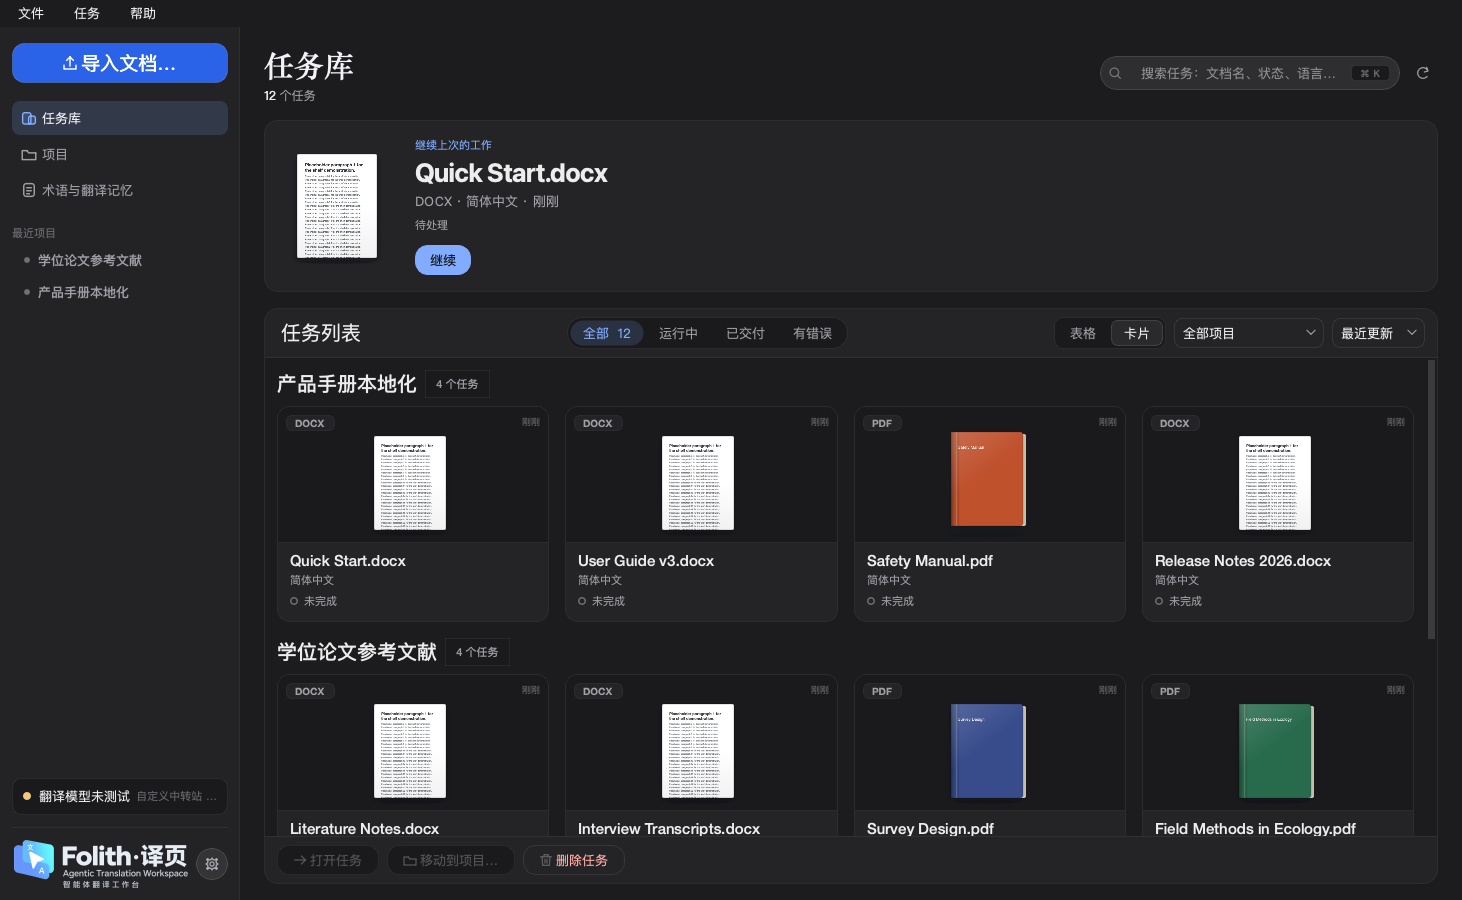
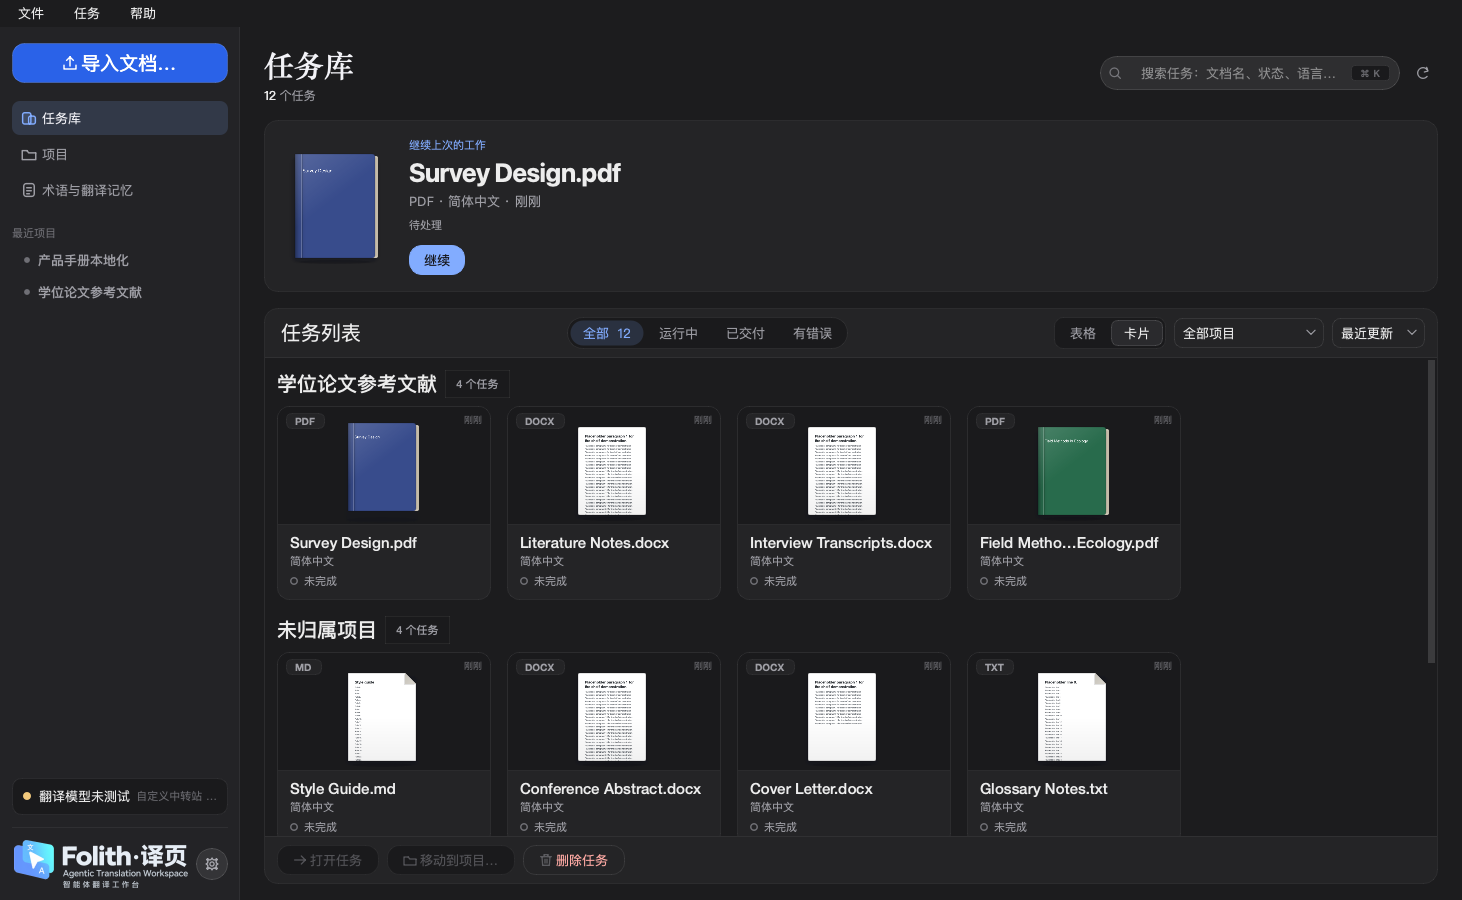
feat(qt): a tighter task card around its document
The card's frame was too generous for the document it holds:

* the document area is 118 px (was 136) with less empty margin around the
  document, and the text block has tighter padding;
* cards are 180–236 px wide and share a row evenly; wider windows get more
  columns instead of wider cards with empty space either side of the page;
* the column count and card width follow the card area's own viewport width
  (scrollbar, settled layout) and are re-applied on every viewport resize,
  not only when the column count changes.

diff --git a/folith/qt/views.py b/folith/qt/views.py
@@ -351,7 +351,8 @@ class _TaskCard(Card):
     activated = Signal(str)
     attentionRequested = Signal(str)
     #: 卡片的最小宽度（px）：列数 = 可用宽度能放下几张这么宽的卡。
-    MIN_WIDTH = 200
+    MIN_WIDTH = 180
+    MAX_WIDTH = 236
 
     def __init__(self, row: adapter.JobRow, *, tone: str,
                  parent: QWidget | None = None) -> None:
@@ -361,6 +362,8 @@ class _TaskCard(Card):
         self.setCursor(Qt.CursorShape.PointingHandCursor)
         self.setToolTip(i18n.tr('单击选中；双击打开任务'))
         self.setMinimumWidth(self.MIN_WIDTH)
+        # 卡片不随窗口无限变宽：宽了只会在文档两侧留出大片空白（看起来像外框太大）。
+        self.setMaximumWidth(self.MAX_WIDTH)
         # 卡片视图是默认视图：纯键盘用户必须能用 Tab 进到卡片、方向键换卡、回车打开。
         self.setFocusPolicy(Qt.FocusPolicy.StrongFocus)
         self.setAccessibleName(row.title or "")
@@ -370,15 +373,15 @@ class _TaskCard(Card):
         self.setProperty("selected", "false")
 
         column = QVBoxLayout(self)
-        column.setContentsMargins(0, 0, 0, theme_module.SPACE["md"])
+        column.setContentsMargins(0, 0, 0, theme_module.SPACE["sm"] + 2)
         column.setSpacing(theme_module.SPACE["sm"])
 
         # ---- 上半：文档示意 ----------------------------------------------
         thumb = QFrame()
         thumb.setObjectName("tileThumb")
-        thumb.setFixedHeight(136)
+        thumb.setFixedHeight(118)
         thumb_layout = QGridLayout(thumb)
-        thumb_layout.setContentsMargins(theme_module.SPACE["sm"], theme_module.SPACE["sm"],
+        thumb_layout.setContentsMargins(theme_module.SPACE["sm"], theme_module.SPACE["xs"] + 2,
                                         theme_module.SPACE["sm"], 0)
         badge_text = _row_format(row)
         # ⚠ 子控件一律先给父对象再改可见性：对无父控件 setVisible(True) 会把它
@@ -390,7 +393,7 @@ class _TaskCard(Card):
         self.time_label.setObjectName("tileTime")
         self.time_label.setToolTip((row.updated_at or "").replace("T", " ")[:16])
         unreadable = bool(str(getattr(row, "error", "") or "").strip())
-        paper = components.DocThumb(72, 94, faded=unreadable)
+        paper = components.DocThumb(68, 88, faded=unreadable)
         paper.set_document(row.filename, row.segment_count)
         self.paper = paper
         self._motion = motion.Motion(self)
@@ -402,8 +405,8 @@ class _TaskCard(Card):
 
         # ---- 下半：文字 ----------------------------------------------------
         text = QVBoxLayout()
-        text.setContentsMargins(theme_module.SPACE["md"], 0, theme_module.SPACE["md"], 0)
-        text.setSpacing(theme_module.SPACE["xxs"] + 1)
+        text.setContentsMargins(theme_module.SPACE["sm"] + 4, 0, theme_module.SPACE["sm"] + 4, 0)
+        text.setSpacing(theme_module.SPACE["xxs"])
         title = style_module.ElideLabel(row.title or i18n.tr("未命名任务"),
                                         mode=Qt.TextElideMode.ElideMiddle)
         title.setObjectName("taskCardTitle")
@@ -841,6 +844,7 @@ class HomeView(QWidget):
             Qt.ScrollBarPolicy.ScrollBarAlwaysOff)
         self.card_scroll.viewport().setAutoFillBackground(False)
         self.card_scroll.setWidget(self.card_page)
+        self.card_scroll.viewport().installEventFilter(self)
         self._cards: dict[str, _TaskCard] = {}
         self._project_names: dict[str, str] = {}
         self._card_columns_applied = 0
@@ -1351,27 +1355,58 @@ class HomeView(QWidget):
         self._set_view_mode(value)
         self.view_switch.set_value(self._view_mode)
 
+    def _cards_available(self) -> int:
+        """卡片区可用的宽度。
+
+        卡片区已经显示并布局好时，量它的视口（出现滚动条、首次布局落定都会改变它）；
+        否则按整页宽度估算——侧栏还在这一页里（独立使用、没交给窗口）时要扣掉它。
+        """
+        viewport = self.card_scroll.viewport()
+        if self.card_scroll.isVisible() and viewport.width() > 200:
+            return viewport.width() - 2 * theme_module.SPACE["md"]
+        sidebar = self.SIDEBAR_WIDTH if self.isAncestorOf(self.sidebar) else 0
+        return self.width() - sidebar - 2 * theme_module.SPACE["xl"] - 2 * theme_module.SPACE["md"]
+
+    def _card_width(self, columns: int) -> int:
+        """一行里的卡片等宽铺开，但不超过 MAX_WIDTH（再宽就只是文档两侧的空白）。"""
+        available = self._cards_available()
+        gap = theme_module.SPACE["lg"]
+        share = (available - gap * (columns - 1)) // max(1, columns)
+        return int(max(_TaskCard.MIN_WIDTH, min(_TaskCard.MAX_WIDTH, share)))
+
     def _card_columns(self) -> int:
         """能并排放下几张 ≥ ``_TaskCard.MIN_WIDTH`` 的卡（Golden Gate 的缩略图网格）。
 
         先看视图自己的宽度（滚动区在首次填充时往往还没被布局到最终尺寸），再减去侧栏、
         主区左右留白与容器卡的内边距。
         """
-        width = self.width() or self.card_scroll.viewport().width()
-        available = width - self.SIDEBAR_WIDTH - 2 * theme_module.SPACE["xl"] \
-            - 2 * theme_module.SPACE["md"]
+        available = self._cards_available()
         gap = theme_module.SPACE["lg"]
-        return max(1, min(6, (available + gap) // (_TaskCard.MIN_WIDTH + gap)))
+        # 按卡片的最大宽度排：窗口越宽列越多，而不是每张卡越宽。
+        return max(1, min(8, (available + gap) // (_TaskCard.MIN_WIDTH + gap + 20)))
 
     def resizeEvent(self, event) -> None:  # noqa: N802 - Qt 命名
         """窗口宽度跨过断点时重排卡片：否则列数会和可用宽度脱节。"""
         super().resizeEvent(event)
+        self._relayout_cards()
+
+    def _relayout_cards(self) -> None:
+        """卡片区宽度变了：列数变了就重排，没变就只把现有卡片调到新的等宽。
+
+        要看的是卡片滚动区视口的宽度（出现滚动条、首次布局落定都会改变它），
+        不只是整页的宽度——否则卡片停在填充那一刻算出的宽度上，右侧留出一条空白。
+        """
         if self._view_mode != "cards" or not self._cards:
             return
         columns = self._card_columns()
         if columns != self._card_columns_applied:
             self._fill_cards(self._visible_rows())
             self._sync_card_selection()
+            return
+        width = self._card_width(columns)
+        for card in self._cards.values():
+            if card.width() != width:
+                card.setFixedWidth(width)
 
     def _project_label(self, project_id: str) -> str:
         if not project_id:
@@ -1405,6 +1440,7 @@ class HomeView(QWidget):
 
         columns = self._card_columns()
         self._card_columns_applied = columns
+        card_width = self._card_width(columns)
         for project_id, items in groups.items():
             section = QWidget()
             section_layout = QVBoxLayout(section)
@@ -1425,6 +1461,7 @@ class HomeView(QWidget):
             grid.setVerticalSpacing(theme_module.SPACE["lg"])
             for position, row in enumerate(items):
                 card = _TaskCard(row, tone=_status_tone(row), parent=section)
+                card.setFixedWidth(card_width)
                 card.clicked.connect(self._select_job_from_card)
                 card.activated.connect(self._open_job_from_card)
                 card.attentionRequested.connect(self.checkRequested.emit)
@@ -1433,7 +1470,8 @@ class HomeView(QWidget):
                 self._cards[row.job_id] = card
                 self._request_preview(row.job_id, row.filename, card.paper)
             for column in range(columns):
-                grid.setColumnStretch(column, 1)
+                grid.setColumnStretch(column, 0)
+            grid.setColumnStretch(columns, 1)     # 多出来的宽度留在右侧，卡片保持紧凑
             section_layout.addLayout(grid)
             self.card_layout.addWidget(section)
         self.card_layout.addStretch(1)
@@ -1513,6 +1551,9 @@ class HomeView(QWidget):
         """表格拿到键盘焦点时给它一个"当前行即选中行"的起点（键盘可达性的前提）。"""
         if watched is getattr(self, "table", None) and event.type() == QEvent.Type.FocusIn:
             self._select_current_row_for_keyboard()
+        if (event.type() == QEvent.Type.Resize and hasattr(self, "card_scroll")
+                and watched is self.card_scroll.viewport()):
+            QTimer.singleShot(0, self._relayout_cards)
         if watched is getattr(self, "engine_card", None) and (
                 event.type() == QEvent.Type.MouseButtonRelease
                 or (event.type() == QEvent.Type.KeyPress

diff --git a/folith/qt/components.py b/folith/qt/components.py
@@ -495,7 +495,7 @@ class DocThumb(QWidget):
     def __init__(self, width: int = 74, height: int = 96, *, faded: bool = False,
                  parent: QWidget | None = None) -> None:
         super().__init__(parent)
-        self.setFixedSize(width + 22, height + 24)
+        self.setFixedSize(width + 16, height + 18)
         self._page = QSize(width, height)
         self._faded = faded
         self._image: QImage | None = None
@@ -542,7 +542,7 @@ class DocThumb(QWidget):
         """页面在本控件里的位置（含抬起位移）：打开任务的过渡从这里出发。"""
         w, h = self._page.width(), self._page.height()
         rise = 4.0 * self._lift
-        return QRectF((self.width() - w) / 2 - 3, self.height() - h - 12 - rise, w, h)
+        return QRectF((self.width() - w) / 2 - 2, self.height() - h - 9 - rise, w, h)
 
     # ---- 绘制 ----
     def paintEvent(self, _event) -> None:  # noqa: N802 - Qt 命名

diff --git a/tests/qt_home_cards_test.py b/tests/qt_home_cards_test.py
@@ -135,7 +135,7 @@ def test_empty_list_shows_the_empty_state_in_both_views(home):
 
 
 def test_column_count_follows_the_window_width(home):
-    # 卡片至少 200px 宽（文档缩略图 + 两行文字放得下），列数 = 主区能放下几张。
+    # 卡片 180–236px 宽（更紧凑的外框，见 _TaskCard.MAX_WIDTH），列数 = 主区能放下几张。
     home.resize(1400, 900)
     assert home._card_columns() == 5
     home.resize(1000, 900)
